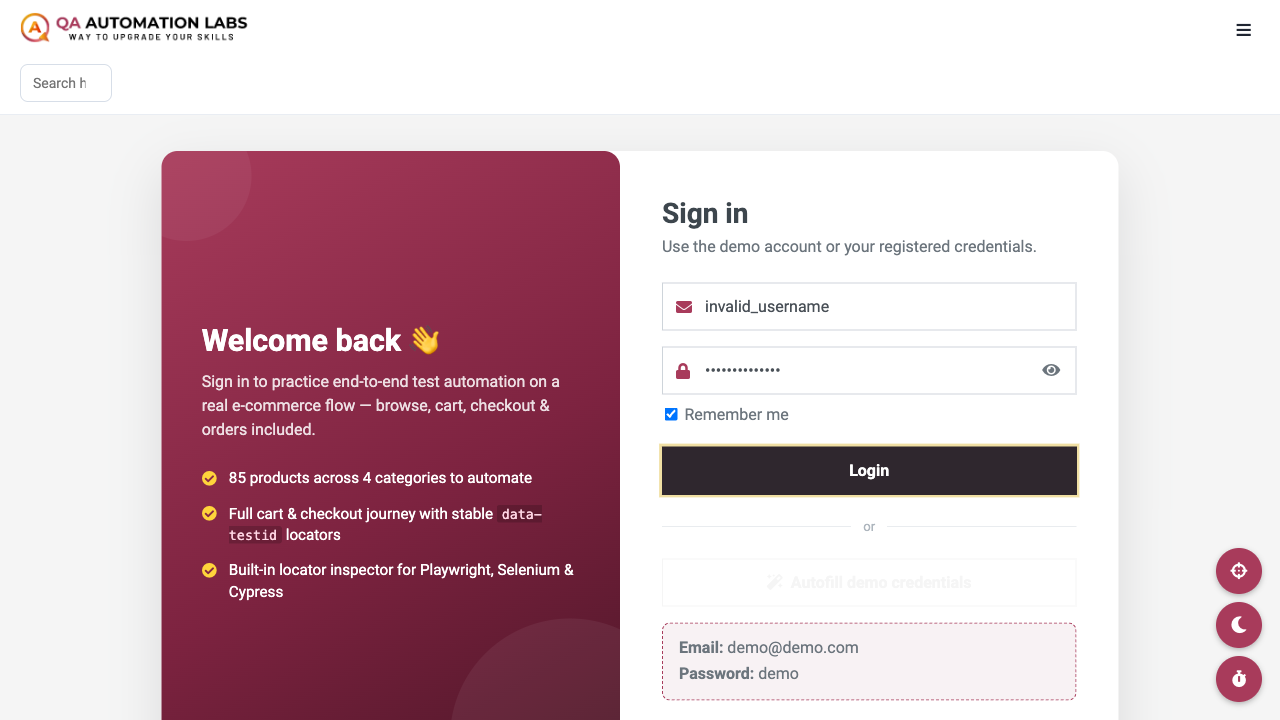
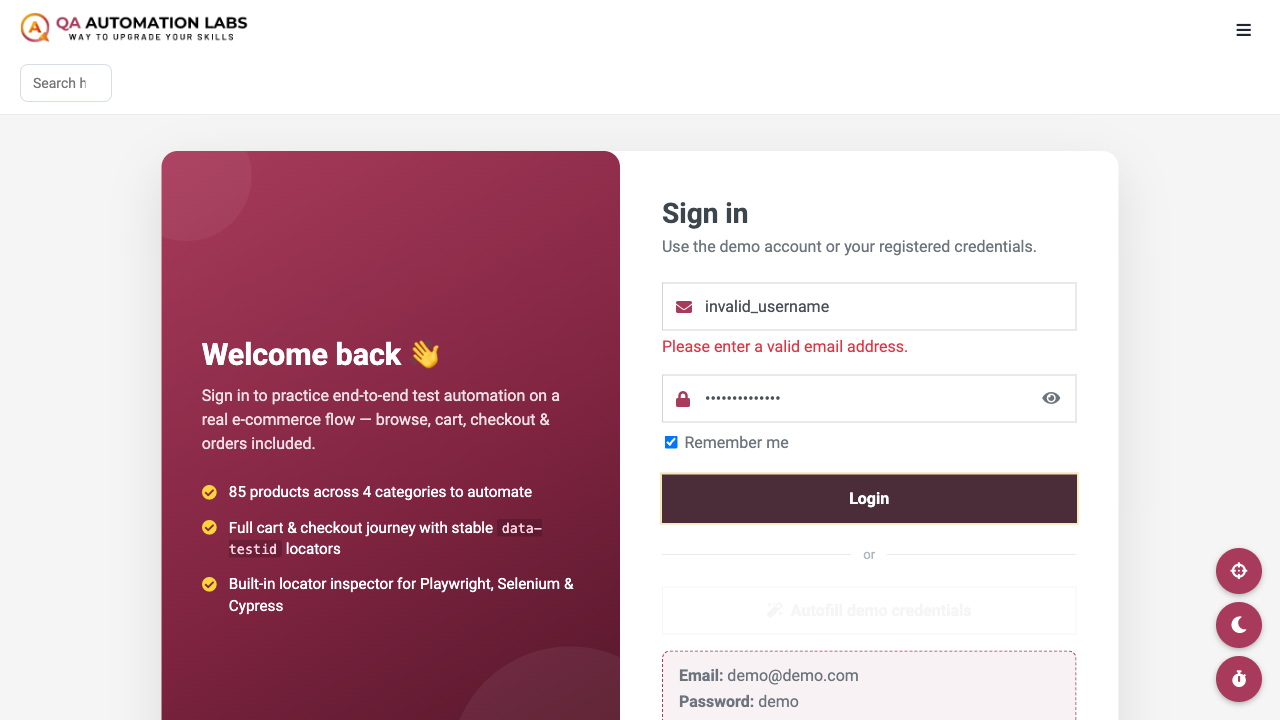
added gherkin feature

diff --git a/test_suites/login_bdd.py b/test_suites/login_bdd.py
@@ -1,0 +1,45 @@
+from pytest_bdd import given, scenarios, then, when, parsers
+
+from shop_labs.conftest import BASE_URL
+from shop_labs.pages.dashboard.dashboard_page import DashboardPage
+from shop_labs.pages.login.login_page import LoginPage
+
+
+scenarios("../features/login/login.feature")
+
+
+@given("the user is on the login page")
+def user_is_on_login_page(chrome):
+    chrome.goto(BASE_URL)
+
+
+@when(
+    parsers.parse(
+        'the user logs in with email "{email}" and password "{password}"'
+    )
+)
+def user_logs_in(chrome, email, password):
+    LoginPage(chrome).login(email, password)
+
+
+@when(
+    parsers.parse(
+        'the user submits username "{username}" and password "{password}"'
+    )
+)
+def user_submits_invalid_login(chrome, username, password):
+    login_page = LoginPage(chrome)
+    login_page.enter_email(username)
+    login_page.enter_password(password)
+    login_page.check_remember_me()
+    login_page.click_login_button()
+
+
+@then("the dashboard should be open")
+def dashboard_should_be_open(chrome):
+    DashboardPage(chrome).should_be_open()
+
+
+@then("the dashboard should not be open")
+def dashboard_should_not_be_open(chrome):
+    DashboardPage(chrome).should_not_be_open()
